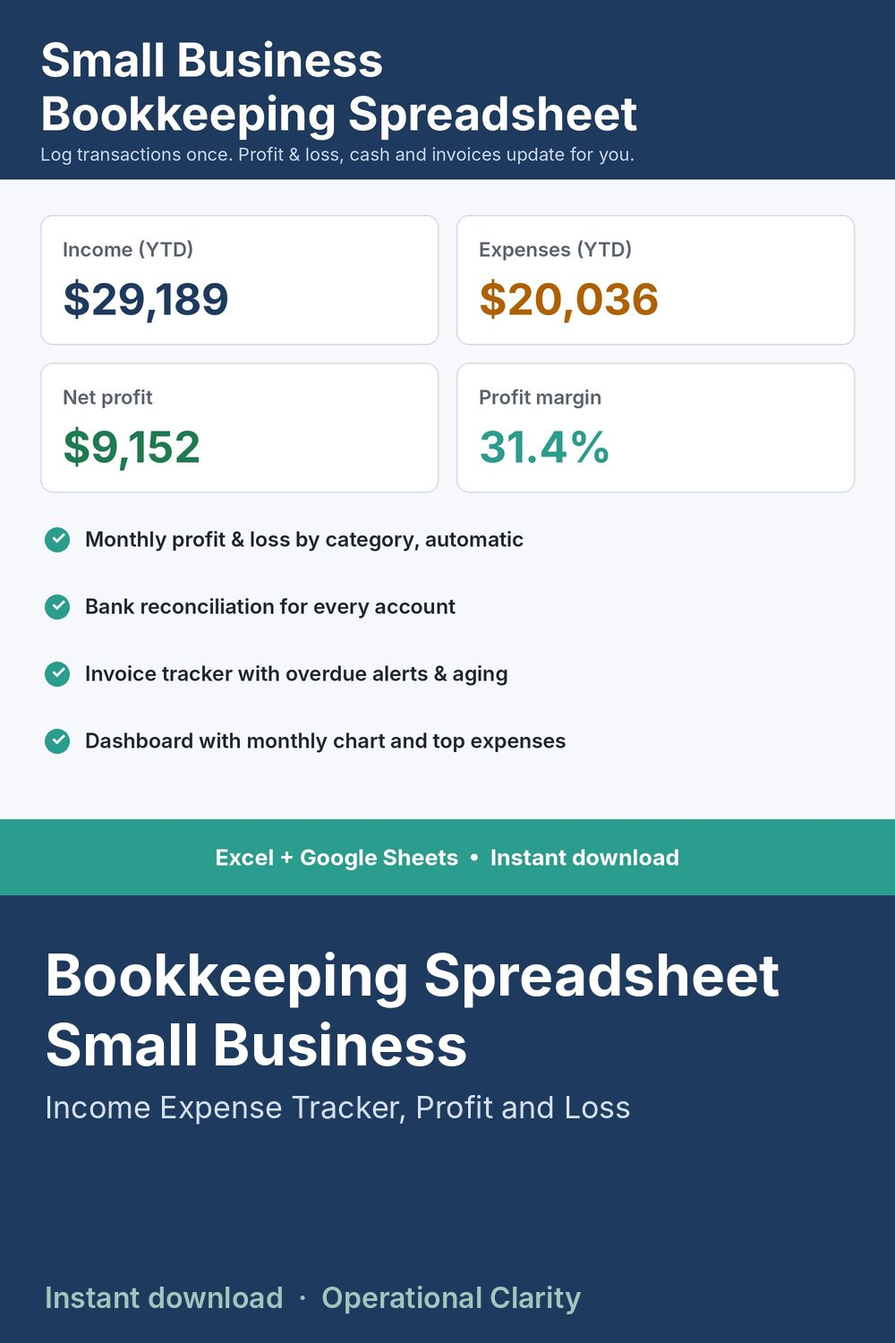
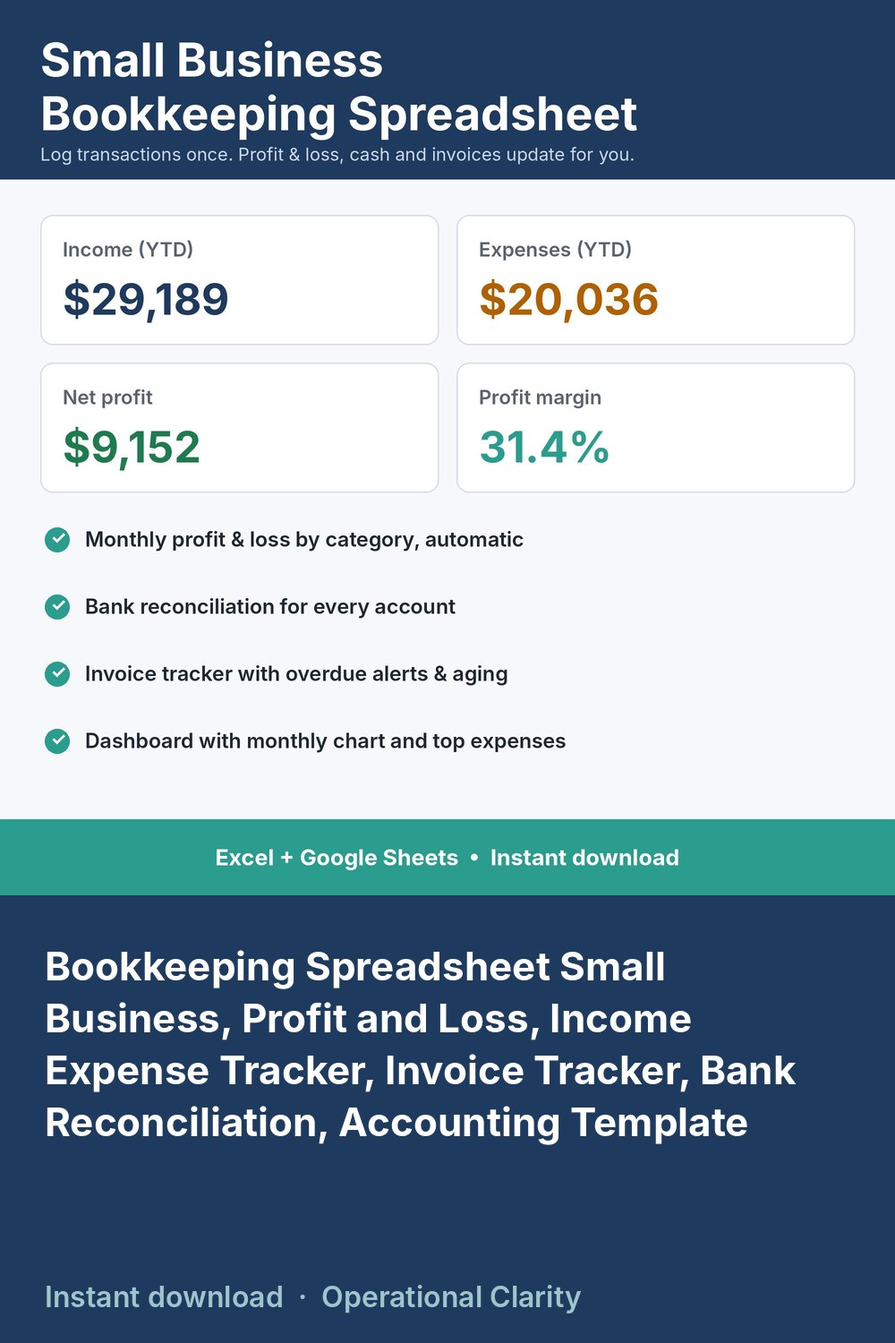
PROMO 10/29: pins for 2 rewritten listings (b) and Bookkeeping Dashboard (main, b, c); refresh feed
Claude-Session: https://claude.ai/code/session_01DNMp1qHdJLzhWbKsZHTYBr

diff --git a/index.html b/index.html
@@ -7,6 +7,6 @@
 <div class="card"><h2><a href="recipe-cost-calculator.html">Recipe Cost Calculator</a></h2><p>Cost per batch, cost per serving and a suggested price for baked goods.</p></div>
 <div class="card"><h2><a href="paycheck-budget-calculator.html">Paycheck Budget Calculator</a></h2><p>Split bills across paychecks and see what is left from each one.</p></div>
 <div class="card"><h2><a href="landed-cost-calculator.html">Landed Cost Calculator</a></h2><p>True cost per unit after freight, duty and fees.</p></div>
-<h2 id="templates">Spreadsheet & Document Templates</h2><ul><li><a href="p/4595349035.html">2027 Planner Digital &amp; Printable</a></li><li><a href="p/4594598019.html">Airbnb Welcome Book Template Editable in Word Google Docs</a></li><li><a href="p/4602024296.html">Babysitting Forms Kit</a></li><li><a href="p/4553654453.html">Bakery Business Bundle</a></li><li><a href="p/4596837173.html">Bookkeeping Spreadsheet Small Business</a></li><li><a href="p/4554866019.html">Business Budget Spreadsheet</a></li><li><a href="p/4600601073.html">Candle Making Log Spreadsheet + Fragrance Load Calculator</a></li><li><a href="p/4601355308.html">Catering Contract Template Kit</a></li><li><a href="p/4598967865.html">Coffee Shop Business Plan Template + Startup &amp; Profit Planner Spreadsheet</a></li><li><a href="p/4602477706.html">Consignment Tracker Spreadsheet + Consignment Agreement</a></li><li><a href="p/4600607420.html">Consulting Contract Template + Statement of Work &amp; Proposal</a></li><li><a href="p/4554878636.html">Contract Tracker Spreadsheet</a></li><li><a href="p/4597002015.html">Cookie Pricing Calculator</a></li><li><a href="p/4601198780.html">Dance Studio Forms Kit</a></li><li><a href="p/4601100164.html">Daycare Menu Planner Spreadsheet + Weekly Menu Template</a></li><li><a href="p/4598811066.html">Embroidery Pricing Calculator Spreadsheet</a></li><li><a href="p/4594516468.html">Employee Schedule Template Excel Google Sheets</a></li><li><a href="p/4599677766.html">Event Planner Contract Template + Client Questionnaire &amp; Budget Tracker</a></li><li><a href="p/4599435344.html">Florist Order Form Template + Wedding Consultation Form &amp; Flower Pricing Calculator</a></li><li><a href="p/4602913827.html">Food Cost Bundle</a></li><li><a href="p/4597499808.html">Food Truck Business Plan Template + Startup &amp; Profit Planner Spreadsheet</a></li><li><a href="p/4602392090.html">Freelance Writer Contract Template Kit</a></li><li><a href="p/4601783746.html">Graphic Design Contract Template Kit</a></li><li><a href="p/4597022350.html">Home Daycare Starter Kit</a></li><li><a href="p/4601273740.html">Horse Boarding Contract Kit</a></li><li><a href="p/4552565761.html">Ingredient Cost Comparison Sheet</a></li><li><a href="p/4552578072.html">Inventory Count Sheet</a></li><li><a href="p/4554865995.html">Inventory Loss Tracker</a></li><li><a href="p/4553664350.html">Inventory Management Bundle</a></li><li><a href="p/4443844823.html">Inventory Tracker Spreadsheet with Reorder Alerts</a></li><li><a href="p/4602913735.html">Inventory and Ordering Bundle</a></li><li><a href="p/4554878596.html">Landed Cost Calculator Spreadsheet</a></li><li><a href="p/4602544610.html">Landscaping Contract Template Kit</a></li><li><a href="p/4598084241.html">Massage Intake Form Template + SOAP Notes &amp; Client Tracker Spreadsheet</a></li><li><a href="p/4601646939.html">Mobile Bartending Contract Template Kit</a></li><li><a href="p/4554866001.html">Multi Location Inventory Tracker</a></li><li><a href="p/4602844224.html">Nail Tech Forms Kit</a></li><li><a href="p/4601947594.html">Nanny Contract Template Kit</a></li><li><a href="p/4594847811.html">Paycheck Budget Planner Spreadsheet</a></li><li><a href="p/4599761870.html">Personal Trainer Forms + Client Tracker</a></li><li><a href="p/4598178519.html">Pet Sitting Contract Template + Pet Care Sheet &amp; Booking Invoice Tracker</a></li><li><a href="p/4597992636.html">Photography Client Questionnaire Templates + Pricing Calculator &amp; Booking Tracker</a></li><li><a href="p/4599831777.html">Piano Lesson Tracker + Practice Assignment Sheet &amp; Studio Policy</a></li><li><a href="p/4594208500.html">Print on Demand Profit Tracker Spreadsheet</a></li><li><a href="p/4598251079.html">Printable Notary Journal 150 Entries + Notary Business Kit</a></li><li><a href="p/4554878680.html">Product Cost Calculator</a></li><li><a href="p/4603480063.html">Purchase Order + Inventory Dashboard</a></li><li><a href="p/4552565751.html">Purchase Order Approval Tracker</a></li><li><a href="p/4430807339.html">Purchase Order Tracker Spreadsheet &amp; Receiving Log</a></li><li><a href="p/4552578064.html">Purchasing SOP Templates</a></li><li><a href="p/4553664356.html">Purchasing Templates Bundle</a></li><li><a href="p/4558377143.html">QuickBooks Dashboard Template</a></li><li><a href="p/4554878614.html">Quote Comparison Spreadsheet</a></li><li><a href="p/4562652240.html">Recipe Cost Calculator Google Sheets Excel</a></li><li><a href="p/4552578048.html">Reorder Point Calculator</a></li><li><a href="p/4600974020.html">Restaurant Inventory Sheet + Food Cost Calculator</a></li><li><a href="p/4604903580.html">Restaurant Purchasing Bundle</a></li><li><a href="p/4604185746.html">Retail Shop Bundle</a></li><li><a href="p/4554878660.html">Returns Tracker Spreadsheet</a></li><li><a href="p/4554878628.html">Sales Forecast Spreadsheet</a></li><li><a href="p/4597001937.html">Salon Booth Rental Agreement Template</a></li><li><a href="p/4561265217.html">Simple Inventory Tracker Spreadsheet</a></li><li><a href="p/4553654601.html">Small Business Operations Bundle</a></li><li><a href="p/4598888813.html">Soap Making Log Spreadsheet + Cost per Bar Calculator</a></li><li><a href="p/4598679324.html">Social Media Manager Contract Template + Client Onboarding &amp; Pricing Calculator</a></li><li><a href="p/4552578060.html">Supplier Price Tracker</a></li><li><a href="p/4552578052.html">Supplier Tracker Spreadsheet</a></li><li><a href="p/4602618784.html">Tattoo Consent Form Kit</a></li><li><a href="p/4596131544.html">Tax Deduction Tracker Spreadsheet</a></li><li><a href="p/4601852361.html">Tutoring Contract Template Kit</a></li><li><a href="p/4552565827.html">Vendor Onboarding Checklist</a></li><li><a href="p/4599059861.html">Virtual Assistant Contract Template + Client Onboarding &amp; Retainer Time Tracker</a></li><li><a href="p/4554865969.html">Warehouse Spreadsheet</a></li><li><a href="p/4602285754.html">Web Design Contract Template Kit</a></li><li><a href="p/4598332795.html">Wholesale Order Form Template + Wholesale Order Tracker Spreadsheet</a></li><li><a href="p/4561283977.html">Wholesale Price List Template Excel Google Sheets</a></li></ul>
+<h2 id="templates">Spreadsheet & Document Templates</h2><ul><li><a href="p/4595349035.html">2027 Planner Digital &amp; Printable</a></li><li><a href="p/4594598019.html">Airbnb Welcome Book Template Editable in Word Google Docs</a></li><li><a href="p/4602024296.html">Babysitting Forms Kit</a></li><li><a href="p/4553654453.html">Bakery Business Bundle</a></li><li><a href="p/4596837173.html">Bookkeeping Spreadsheet Small Business, Profit and Loss, Income Expense Tracker, Invoice Tracker, Bank Reconciliation, Accounting Template</a></li><li><a href="p/4554866019.html">Business Budget Spreadsheet</a></li><li><a href="p/4600601073.html">Candle Making Log Spreadsheet + Fragrance Load Calculator</a></li><li><a href="p/4601355308.html">Catering Contract Template Kit</a></li><li><a href="p/4598967865.html">Coffee Shop Business Plan Template + Startup &amp; Profit Planner Spreadsheet</a></li><li><a href="p/4602477706.html">Consignment Tracker Spreadsheet + Consignment Agreement</a></li><li><a href="p/4600607420.html">Consulting Contract Template + Statement of Work &amp; Proposal</a></li><li><a href="p/4554878636.html">Contract Tracker Spreadsheet</a></li><li><a href="p/4597002015.html">Cookie Pricing Calculator</a></li><li><a href="p/4601198780.html">Dance Studio Forms Kit</a></li><li><a href="p/4601100164.html">Daycare Menu Planner Spreadsheet + Weekly Menu Template</a></li><li><a href="p/4598811066.html">Embroidery Pricing Calculator Spreadsheet</a></li><li><a href="p/4594516468.html">Employee Schedule Template Excel Google Sheets</a></li><li><a href="p/4599677766.html">Event Planner Contract Template + Client Questionnaire &amp; Budget Tracker</a></li><li><a href="p/4599435344.html">Florist Order Form Template + Wedding Consultation Form &amp; Flower Pricing Calculator</a></li><li><a href="p/4602913827.html">Food Cost Bundle</a></li><li><a href="p/4597499808.html">Food Truck Business Plan Template + Startup &amp; Profit Planner Spreadsheet</a></li><li><a href="p/4602392090.html">Freelance Writer Contract Template Kit</a></li><li><a href="p/4601783746.html">Graphic Design Contract Template Kit</a></li><li><a href="p/4597022350.html">Home Daycare Starter Kit</a></li><li><a href="p/4601273740.html">Horse Boarding Contract Kit</a></li><li><a href="p/4552565761.html">Ingredient Cost Comparison Sheet</a></li><li><a href="p/4552578072.html">Inventory Count Sheet</a></li><li><a href="p/4554865995.html">Inventory Loss Tracker</a></li><li><a href="p/4553664350.html">Inventory Management Bundle</a></li><li><a href="p/4443844823.html">Inventory Tracker Spreadsheet with Reorder Alerts</a></li><li><a href="p/4602913735.html">Inventory and Ordering Bundle</a></li><li><a href="p/4554878596.html">Landed Cost Calculator Spreadsheet</a></li><li><a href="p/4602544610.html">Landscaping Contract Template Kit</a></li><li><a href="p/4598084241.html">Massage Intake Form, Massage Consent Form, Massage SOAP Notes, Health History + Client Tracker Spreadsheet</a></li><li><a href="p/4601646939.html">Mobile Bartending Contract Template Kit</a></li><li><a href="p/4554866001.html">Multi Location Inventory Tracker</a></li><li><a href="p/4602844224.html">Nail Tech Forms Kit</a></li><li><a href="p/4601947594.html">Nanny Contract Template Kit</a></li><li><a href="p/4594847811.html">Paycheck Budget Planner Spreadsheet</a></li><li><a href="p/4599761870.html">Personal Trainer Forms + Client Tracker</a></li><li><a href="p/4598178519.html">Pet Sitting Contract Template + Pet Care Sheet &amp; Booking Invoice Tracker</a></li><li><a href="p/4597992636.html">Photography Client Questionnaire Templates + Pricing Calculator &amp; Booking Tracker</a></li><li><a href="p/4599831777.html">Piano Lesson Tracker + Practice Assignment Sheet &amp; Studio Policy</a></li><li><a href="p/4594208500.html">Print on Demand Profit Tracker Spreadsheet</a></li><li><a href="p/4598251079.html">Printable Notary Journal 150 Entries + Notary Business Kit</a></li><li><a href="p/4554878680.html">Product Cost Calculator</a></li><li><a href="p/4603480063.html">Purchase Order + Inventory Dashboard</a></li><li><a href="p/4552565751.html">Purchase Order Approval Tracker</a></li><li><a href="p/4430807339.html">Purchase Order Tracker Spreadsheet &amp; Receiving Log</a></li><li><a href="p/4552578064.html">Purchasing SOP Templates</a></li><li><a href="p/4553664356.html">Purchasing Templates Bundle</a></li><li><a href="p/4558377143.html">QuickBooks Dashboard Template</a></li><li><a href="p/4554878614.html">Quote Comparison Spreadsheet</a></li><li><a href="p/4562652240.html">Recipe Cost Calculator Google Sheets Excel</a></li><li><a href="p/4552578048.html">Reorder Point Calculator</a></li><li><a href="p/4600974020.html">Restaurant Inventory Sheet + Food Cost Calculator</a></li><li><a href="p/4604903580.html">Restaurant Purchasing Bundle</a></li><li><a href="p/4604185746.html">Retail Shop Bundle</a></li><li><a href="p/4554878660.html">Returns Tracker Spreadsheet</a></li><li><a href="p/4554878628.html">Sales Forecast Spreadsheet</a></li><li><a href="p/4597001937.html">Salon Booth Rental Agreement Template</a></li><li><a href="p/4561265217.html">Simple Inventory Tracker Spreadsheet</a></li><li><a href="p/4605653122.html">Small Business Bookkeeping Dashboard</a></li><li><a href="p/4553654601.html">Small Business Operations Bundle</a></li><li><a href="p/4598888813.html">Soap Making Log Spreadsheet + Cost per Bar Calculator</a></li><li><a href="p/4598679324.html">Social Media Manager Contract Template + Client Onboarding &amp; Pricing Calculator</a></li><li><a href="p/4552578060.html">Supplier Price Tracker</a></li><li><a href="p/4552578052.html">Supplier Tracker Spreadsheet</a></li><li><a href="p/4602618784.html">Tattoo Consent Form Kit</a></li><li><a href="p/4596131544.html">Tax Deduction Tracker Spreadsheet</a></li><li><a href="p/4601852361.html">Tutoring Contract Template Kit</a></li><li><a href="p/4552565827.html">Vendor Onboarding Checklist</a></li><li><a href="p/4599059861.html">Virtual Assistant Contract Template + Client Onboarding &amp; Retainer Time Tracker</a></li><li><a href="p/4554865969.html">Warehouse Spreadsheet</a></li><li><a href="p/4602285754.html">Web Design Contract Template Kit</a></li><li><a href="p/4598332795.html">Wholesale Order Form Template + Wholesale Order Tracker Spreadsheet</a></li><li><a href="p/4561283977.html">Wholesale Price List Template Excel Google Sheets</a></li></ul>
 <p>Want the full spreadsheet versions? <a class="cta" href="https://www.etsy.com/shop/Operationalclarity">Browse all templates on Etsy</a></p>
 </main><footer>Free tools by <a href="https://www.etsy.com/shop/Operationalclarity">Operational Clarity</a>. Estimates only, not financial or tax advice. Not affiliated with Etsy.</footer></body></html>

diff --git a/p/4598084241.html b/p/4598084241.html
@@ -1,8 +1,8 @@
 <!doctype html><html lang="en"><head><meta charset="utf-8"><meta name="viewport" content="width=device-width,initial-scale=1">
-<title>Massage Intake Form Template + SOAP Notes &amp; Client Tracker Spreadsheet | Operational Clarity</title><meta name="description" content="MASSAGE INTAKE FORM KIT | Client Intake &amp; Health History, Consent, SOAP Notes + Client &amp; Session Tracker | Editable Word, Google Docs, PDF + Excel / Google">
+<title>Massage Intake Form, Massage Consent Form, Massage SOAP Notes, Health History + Client Tracker Spreadsheet | Operational Clarity</title><meta name="description" content="MASSAGE INTAKE FORM KIT | Client Intake &amp; Health History, Consent, SOAP Notes + Client &amp; Session Tracker | Editable Word, Google Docs, PDF + Excel / Google">
 <link rel="canonical" href="https://hgmanagementusa-bot.github.io/operationalclarity-tools/p/4598084241.html"><link rel="stylesheet" href="../style.css">
-<meta property="og:title" content="Massage Intake Form Template + SOAP Notes &amp; Client Tracker Spreadsheet"><meta property="og:image" content="https://hgmanagementusa-bot.github.io/operationalclarity-tools/pins/4598084241.jpg"><meta property="og:type" content="product"></head>
+<meta property="og:title" content="Massage Intake Form, Massage Consent Form, Massage SOAP Notes, Health History + Client Tracker Spreadsheet"><meta property="og:image" content="https://hgmanagementusa-bot.github.io/operationalclarity-tools/pins/4598084241.jpg"><meta property="og:type" content="product"></head>
 <body><header><a href="../index.html">Operational Clarity · Small Business Templates</a></header><main>
-<h1>Massage Intake Form Template + SOAP Notes &amp; Client Tracker Spreadsheet</h1><img src="../pins/4598084241.jpg" alt="Massage Intake Form Template + SOAP Notes &amp; Client Tracker Spreadsheet" style="max-width:100%;height:auto;border-radius:8px">
+<h1>Massage Intake Form, Massage Consent Form, Massage SOAP Notes, Health History + Client Tracker Spreadsheet</h1><img src="../pins/4598084241.jpg" alt="Massage Intake Form, Massage Consent Form, Massage SOAP Notes, Health History + Client Tracker Spreadsheet" style="max-width:100%;height:auto;border-radius:8px">
 <p><a class="cta" href="https://www.etsy.com/listing/4598084241/massage-intake-form-template-soap-notes">Get it on Etsy</a></p><p>MASSAGE INTAKE FORM KIT | Client Intake &amp; Health History, Consent, SOAP Notes + Client &amp; Session Tracker | Editable Word, Google Docs, PDF + Excel / Google Sheets | Instant Download</p><p>Everything a massage therapist needs on paper, plus a spreadsheet that remembers it for you. Edit in Word, Pages or Google Docs - no Canva needed.</p><p>CLIENT INTAKE &amp; CONSENT (Word + PDF, 3 pages)<br>• Contact info and emergency contact<br>• Reason for visit, pressure preference, focus areas and areas to AVOID, allergies and sensitivities (oils, lotions, scents)<br>• 21-item health history checklist, medications, doctor&#x27;s care<br>• Areas of concern table (focus / avoid / pain 0-10)<br>• Consent statements with initials, cancellation and late-arrival policies (edit the hours and fees), client and therapist signatures, minor consent</p><p>SOAP NOTES &amp; HEALTH UPDATES (Word + PDF)<br>• 2 SOAP session note pages (Subjective, Objective, Assessment, Plan)<br>• Returning-client health history update form</p><p>GIFT CERTIFICATES &amp; PACKAGE CARD (Word + PDF)<br>• 2 gift certificates and a 10-visit prepaid package card</p><p>CLIENT &amp; SESSION TRACKER (Excel / Google Sheets)<br>• Services menu: name, minutes, price<br>• Clients: intake signed date, renewal due date and status (On file / Due in X days / UPDATE NEEDED / MISSING), last visit, number of visits, total spent, and a &quot;time to check in&quot; flag for clients you haven&#x27;t seen<br>• Sessions log (2,000 rows): pick client and service and the price fills in; add discounts, tips and payment method; mark package sessions<br>• Prepaid packages: sessions used and remaining count themselves from the session log, with a &quot;1 left - offer renewal&quot; alert<br>• Dashboard: session revenue, package sales, tips, sessions and revenue by month, most booked services, intake forms to update, prepaid sessions still owed</p><p>WHAT YOU GET (one ZIP file)<br>• 1_Client_Intake_and_Consent.docx + .pdf<br>• 2_SOAP_Notes_and_Health_Updates.docx + .pdf<br>• 3_Gift_Certificate_and_Package_Card.docx + .pdf<br>• Massage_Client_and_Session_Tracker.xlsx<br>• 0_START_HERE guide (Word + PDF)</p><p>HOW TO USE<br>• Word: open in Microsoft Word, Pages or Google Docs (upload the .docx to Google Drive, then open with Google Docs). Replace everything in [brackets].<br>• Spreadsheet: open in Excel, or upload to Google Drive and open with Google Sheets. Yellow cells are for typing; green cells calculate. Example data included.</p><p>Editable template, not medical or legal advice. Intake, consent and record-keeping requirements differ by state and licensing board: review the forms against your state&#x27;s rules before use.</p><p>INSTANT DIGITAL DOWNLOAD. No physical item will be shipped.</p><p><a class="cta" href="https://www.etsy.com/listing/4598084241/massage-intake-form-template-soap-notes">Get it on Etsy</a></p>
 </main><footer>By <a href="https://www.etsy.com/shop/Operationalclarity">Operational Clarity</a>. Not affiliated with Etsy.</footer></body></html>

diff --git a/p/4596837173.html b/p/4596837173.html
@@ -1,8 +1,8 @@
 <!doctype html><html lang="en"><head><meta charset="utf-8"><meta name="viewport" content="width=device-width,initial-scale=1">
-<title>Bookkeeping Spreadsheet Small Business | Operational Clarity</title><meta name="description" content="SMALL BUSINESS BOOKKEEPING SPREADSHEET | Income &amp; Expense Tracker, Profit and Loss, Bank Reconciliation, Invoice Tracker | Excel &amp; Google Sheets | Instant ">
+<title>Bookkeeping Spreadsheet Small Business, Profit and Loss, Income Expense Tracker, Invoice Tracker, Bank Reconciliation, Accounting Template | Operational Clarity</title><meta name="description" content="SMALL BUSINESS BOOKKEEPING SPREADSHEET | Income &amp; Expense Tracker, Profit and Loss, Bank Reconciliation, Invoice Tracker | Excel &amp; Google Sheets | Instant ">
 <link rel="canonical" href="https://hgmanagementusa-bot.github.io/operationalclarity-tools/p/4596837173.html"><link rel="stylesheet" href="../style.css">
-<meta property="og:title" content="Bookkeeping Spreadsheet Small Business"><meta property="og:image" content="https://hgmanagementusa-bot.github.io/operationalclarity-tools/pins/4596837173.jpg"><meta property="og:type" content="product"></head>
+<meta property="og:title" content="Bookkeeping Spreadsheet Small Business, Profit and Loss, Income Expense Tracker, Invoice Tracker, Bank Reconciliation, Accounting Template"><meta property="og:image" content="https://hgmanagementusa-bot.github.io/operationalclarity-tools/pins/4596837173.jpg"><meta property="og:type" content="product"></head>
 <body><header><a href="../index.html">Operational Clarity · Small Business Templates</a></header><main>
-<h1>Bookkeeping Spreadsheet Small Business</h1><img src="../pins/4596837173.jpg" alt="Bookkeeping Spreadsheet Small Business" style="max-width:100%;height:auto;border-radius:8px">
+<h1>Bookkeeping Spreadsheet Small Business, Profit and Loss, Income Expense Tracker, Invoice Tracker, Bank Reconciliation, Accounting Template</h1><img src="../pins/4596837173.jpg" alt="Bookkeeping Spreadsheet Small Business, Profit and Loss, Income Expense Tracker, Invoice Tracker, Bank Reconciliation, Accounting Template" style="max-width:100%;height:auto;border-radius:8px">
 <p><a class="cta" href="https://www.etsy.com/listing/4596837173/bookkeeping-spreadsheet-small-business">Get it on Etsy</a></p><p>SMALL BUSINESS BOOKKEEPING SPREADSHEET | Income &amp; Expense Tracker, Profit and Loss, Bank Reconciliation, Invoice Tracker | Excel &amp; Google Sheets | Instant Download</p><p>Keep your books in one simple spreadsheet. Log each transaction once, and your monthly profit &amp; loss, account balances, bank reconciliation and unpaid invoices all update automatically.</p><p>WHAT IT DOES<br>• Transaction ledger with 2,000 rows: date, description, Income or Expense, category, account and amount, with dropdowns<br>• Profit &amp; Loss: income and expenses by category for every month, plus year totals, net profit and profit margin<br>• 25 income and 25 expense categories you can rename to fit your business<br>• Cash &amp; Reconcile: starting balance, money in, money out and book balance for up to 8 accounts (checking, savings, credit card, cash, PayPal / Stripe)<br>• Bank reconciliation: enter your statement balance and see the difference, with uncleared items shown<br>• Transfers between your own accounts change balances without affecting profit<br>• Invoice tracker (300 rows): Paid, Open, Due soon and Overdue status, days late, and an aging table (1-30, 31-60, 61-90, 90+ days)<br>• Dashboard: year-to-date income, expenses, net profit, margin, cash on hand, money owed to you, top 5 expenses and a monthly income vs expenses chart</p><p>BEST FOR<br>Small business owners, Etsy and online sellers, makers, service businesses and freelancers who want clean books without accounting software.</p><p>WHAT YOU GET<br>• 1 Excel workbook (.xlsx) with 7 tabs: START HERE, DASHBOARD, SETTINGS, TRANSACTIONS, PROFIT &amp; LOSS, CASH &amp; RECONCILE, INVOICES<br>• Example data so you can see how it works (just type over it)</p><p>COMPATIBILITY<br>Microsoft Excel. For Google Sheets, upload the file to Google Drive and open it with Google Sheets.</p><p>GOOD TO KNOW<br>• This is a bookkeeping organizer, not accounting or tax advice.<br>• Digital download. No physical item will be shipped.<br>• Personal / single-business use only. No reselling or sharing of the file.</p><p><a class="cta" href="https://www.etsy.com/listing/4596837173/bookkeeping-spreadsheet-small-business">Get it on Etsy</a></p>
 </main><footer>By <a href="https://www.etsy.com/shop/Operationalclarity">Operational Clarity</a>. Not affiliated with Etsy.</footer></body></html>

diff --git a/p/4605653122.html b/p/4605653122.html
@@ -1,0 +1,8 @@
+<!doctype html><html lang="en"><head><meta charset="utf-8"><meta name="viewport" content="width=device-width,initial-scale=1">
+<title>Small Business Bookkeeping Dashboard | Operational Clarity</title><meta name="description" content="SMALL BUSINESS BOOKKEEPING DASHBOARD | Google Sheets and Excel | Instant Download See exactly how your business is doing, every month, without accounting s">
+<link rel="canonical" href="https://hgmanagementusa-bot.github.io/operationalclarity-tools/p/4605653122.html"><link rel="stylesheet" href="../style.css">
+<meta property="og:title" content="Small Business Bookkeeping Dashboard"><meta property="og:image" content="https://hgmanagementusa-bot.github.io/operationalclarity-tools/pins/4605653122.jpg"><meta property="og:type" content="product"></head>
+<body><header><a href="../index.html">Operational Clarity · Small Business Templates</a></header><main>
+<h1>Small Business Bookkeeping Dashboard</h1><img src="../pins/4605653122.jpg" alt="Small Business Bookkeeping Dashboard" style="max-width:100%;height:auto;border-radius:8px">
+<p><a class="cta" href="https://www.etsy.com/listing/4605653122/small-business-bookkeeping-dashboard">Get it on Etsy</a></p><p>SMALL BUSINESS BOOKKEEPING DASHBOARD | Google Sheets and Excel | Instant Download</p><p>See exactly how your business is doing, every month, without accounting software. Log income, expenses, invoices and business miles, and one dashboard shows your profit, who still owes you, your biggest costs and year-end totals grouped for your tax professional.</p><p>WHAT IT DOES<br>• Income log by category and payment method, with an optional invoice # for each payment<br>• Expense log by category and payment method, with business-use % for mixed costs and a &quot;receipt saved?&quot; check<br>• Monthly P&amp;L: every income and expense category across 12 months, totals, net profit, profit margin and running profit<br>• Tax-category summary: year totals grouped by Schedule C-style labels you choose, mileage included, plus a count of missing receipts (for organizing records only, not tax advice)<br>• Mileage log: odometer start / end, miles and the amount at YOUR rate (you type the rate, nothing is hard-coded)<br>• Invoice tracker: due dates from your terms, balance, PAID / UNPAID / OVERDUE status, days overdue and average days to get paid</p><p>WHAT&#x27;S INSIDE (9 tabs)<br>• DASHBOARD - 12 KPI tiles, 4 charts (monthly income vs expenses, expenses by category, profit trend, income by category) and an unpaid + overdue invoice list<br>• Income - 1,500 rows<br>• Expenses - 2,000 rows<br>• Invoices - 500 rows<br>• Mileage - 1,000 rows<br>• Monthly P&amp;L - 12 months by category<br>• Tax Summary - Schedule C-style totals<br>• Settings - business name, year start, mileage rate (your input), invoice terms, categories, labels, payment methods<br>• START HERE - tab guide, 15-minute setup and a weekly routine (also as a PDF)</p><p>HOW IT WORKS<br>1) Open the workbook in Google Sheets (File upload, then Open with Google Sheets) or Excel. 2) Set your year start, categories and mileage rate in Settings. 3) Log income, expenses, invoices and trips as they happen. 4) Read the DASHBOARD: profit, money owed to you and where the money goes, updated automatically.</p><p>BEST FOR<br>Makers and handmade sellers, online shops, freelancers, service businesses, side hustles and anyone self-employed who wants clean monthly numbers and an organized year-end summary.</p><p>WHY THIS ONE<br>Realistic example data (a small candle studio: 10 months of sales, 278 expenses, 38 invoices and 123 trips) is already filled in, so you can see how every tab connects before you type a thing. Yellow cells are where you type, green cells calculate. No macros, no add-ons, no monthly fee.</p><p>FORMATS<br>• Small_Business_Bookkeeping_Dashboard.xlsx - works in Google Sheets, Microsoft Excel 2010 or newer, and LibreOffice<br>• 0_START_HERE.pdf - setup guide</p><p>GOOD TO KNOW<br>• Instant digital download. No physical item will be shipped.<br>• The Tax Summary is for organizing your records only. It is not tax advice; check with a tax professional.<br>• Personal / single-business use. No reselling or sharing, including modified versions.<br>• For your own records: it does not connect to your bank, store or accounting software.</p><p><a class="cta" href="https://www.etsy.com/listing/4605653122/small-business-bookkeeping-dashboard">Get it on Etsy</a></p>
+</main><footer>By <a href="https://www.etsy.com/shop/Operationalclarity">Operational Clarity</a>. Not affiliated with Etsy.</footer></body></html>
